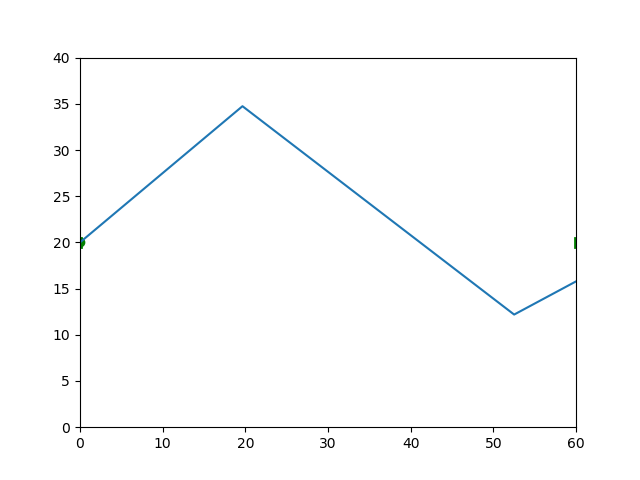
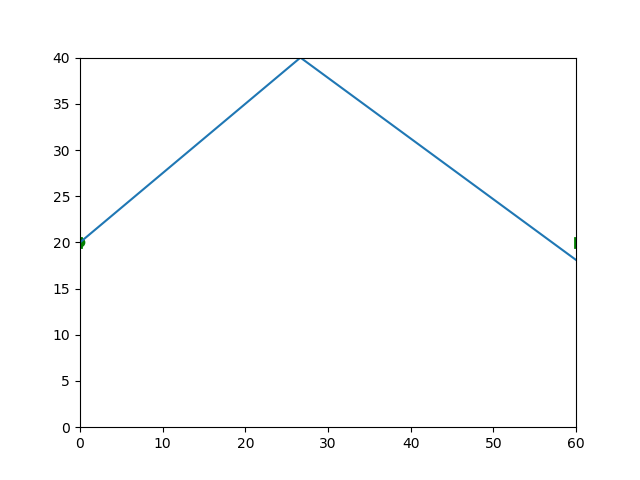
Unknown issue with sim

diff --git a/fiz2/phproject2.py b/fiz2/phproject2.py
@@ -46,13 +46,13 @@ def bouncev(v, place):
         if dst[k] < dst[closest]:
             closest = k
     if closest == 'l':
-        v = (-v[0], v[1])
+        v = (abs(v[0]), v[1])
     elif closest == 'r':
-        v = (-v[0], v[1])
+        v = (-abs(v[0]), v[1])
     elif closest == 't':
-        v = (v[0], -v[1])
+        v = (v[0], -abs(v[1]))
     elif closest == 'b':
-        v = (v[0], -v[1])
+        v = (v[0], abs(v[1]))
     return v
 
 class LineMovement:
@@ -65,6 +65,24 @@ class LineMovement:
         self.Angle = math.atan(self.Velocity[0] / self.Velocity[1])
         self.FVector = (f*G*math.cos(self.Angle), f*G*math.sin(self.Angle))
 
+    def borders(self):
+        return {'l':self.Radius, 'r':ICE[0]-self.Radius, 'b':self.Radius, 't':ICE[1]-self.Radius}
+
+    def getHitTime(self):
+        borders = self.borders()
+        x = sympy.Symbol('x', real=True, positive=True)
+        hits = sympy.solve(self.getPosition(x)[1] - borders['t'], x)
+        hits += sympy.solve(self.getPosition(x)[1] - borders['b'], x)
+        hits += sympy.solve(self.getPosition(x)[0] - borders['l'], x)
+        hits += sympy.solve(self.getPosition(x)[0] - borders['r'], x)
+        ts = []
+        stop = self.getStopTime()
+        for i in hits:
+            if i <= stop:
+                ts.append(i)
+        print(ts)
+        return min(ts) if len(ts) > 0 else 0
+
     def getVelocity(self, t):
         return (self.Velocity[0] - t*self.FVector[0], self.Velocity[1] - t*self.FVector[1])
 
@@ -72,40 +90,7 @@ class LineMovement:
         return self.VNorm / (self.Friction*G)
 
     def getDistance(self, t):
-        lim = self.getStopTime()
-        distance = lambda time: self.VNorm * time - 0.5*(time**2.0)*self.Friction*G
-        return distance(t) if t < lim else distance(lim) # convert distance function to value at t
-
-    def getWallHit(self):
-        borders = {'l':self.Radius, 'r':ICE[0]-self.Radius, 'b':self.Radius, 't':ICE[1]-self.Radius}
-        wall = self.getWall(borders)
-        axle = 0 if wall in ['l', 'r'] else 1
-        x = sympy.Symbol('x', real=True)
-        hits = sympy.solve(self.Velocity[axle]*x - 0.5*(x**2.0)*self.FVector[axle] - abs(borders[wall] - self.Begin[axle]), x)
-        positive = []
-        for i in hits:
-            if i > 0:
-                positive.append(i)
-        return min(positive) if len(positive) > 0 else 0
-
-    def getWall(self, borders):
-        reacht = {'l':None, 'r':None, 't':None, 'b':None}
-        if self.Velocity[0] > 0:
-            reacht['r'] = (borders['r']-self.Begin[0]) / self.Velocity[0]
-        else:
-            reacht['l'] = (borders['l']-self.Begin[0]) / self.Velocity[0]
-        if self.Velocity[1] > 0:
-            reacht['t'] = (borders['t']-self.Begin[1]) / self.Velocity[1]
-        else:
-            reacht['b'] = (borders['b']-self.Begin[1]) / self.Velocity[1]
-        t = None
-        for k in reacht:
-            if reacht[k] != None:
-                if t == None:
-                    t = k
-                elif reacht[t] > reacht[k]:
-                    t = k
-        return t
+        return self.VNorm * t - 0.5*(t**2.0)*self.Friction*G
 
     def getPosition(self, t):
         distance = self.getDistance(t)
@@ -114,6 +99,7 @@ class LineMovement:
         return (self.Begin[0] + dx, self.Begin[1] + dy)
 
 def main(index):
+    print("-"*30, index+1, "-"*30)
     column = tuplify(DATA[index], NAMESIN, ["start", "velocity"])
     drawRink(column['start'])
     sim = LineMovement(column['start'], column['velocity'], column['radius'], column['friction'])
@@ -124,7 +110,7 @@ def main(index):
     inside = True
     # loop every bounce
     while elapsed < finish and inside:
-        traveltime = sim.getWallHit()
+        traveltime = sim.getHitTime()
         elapsed += traveltime
         bounces.append(sim.getPosition(traveltime))
         if traveltime == 0:
@@ -139,7 +125,7 @@ def main(index):
             updatedv = bouncev(sim.getVelocity(traveltime), bounces[-1])
         sim = LineMovement(bounces[-1], updatedv, column['radius'], column['friction'])
     df = pandas.DataFrame(bounces)
-    print("Slide duration: {}s".format(finish))
+    print("Slide duration: {} s".format(finish))
     print(df)
     plt.plot(df[0], df[1])
     plt.savefig("{}.png".format(index+1))
